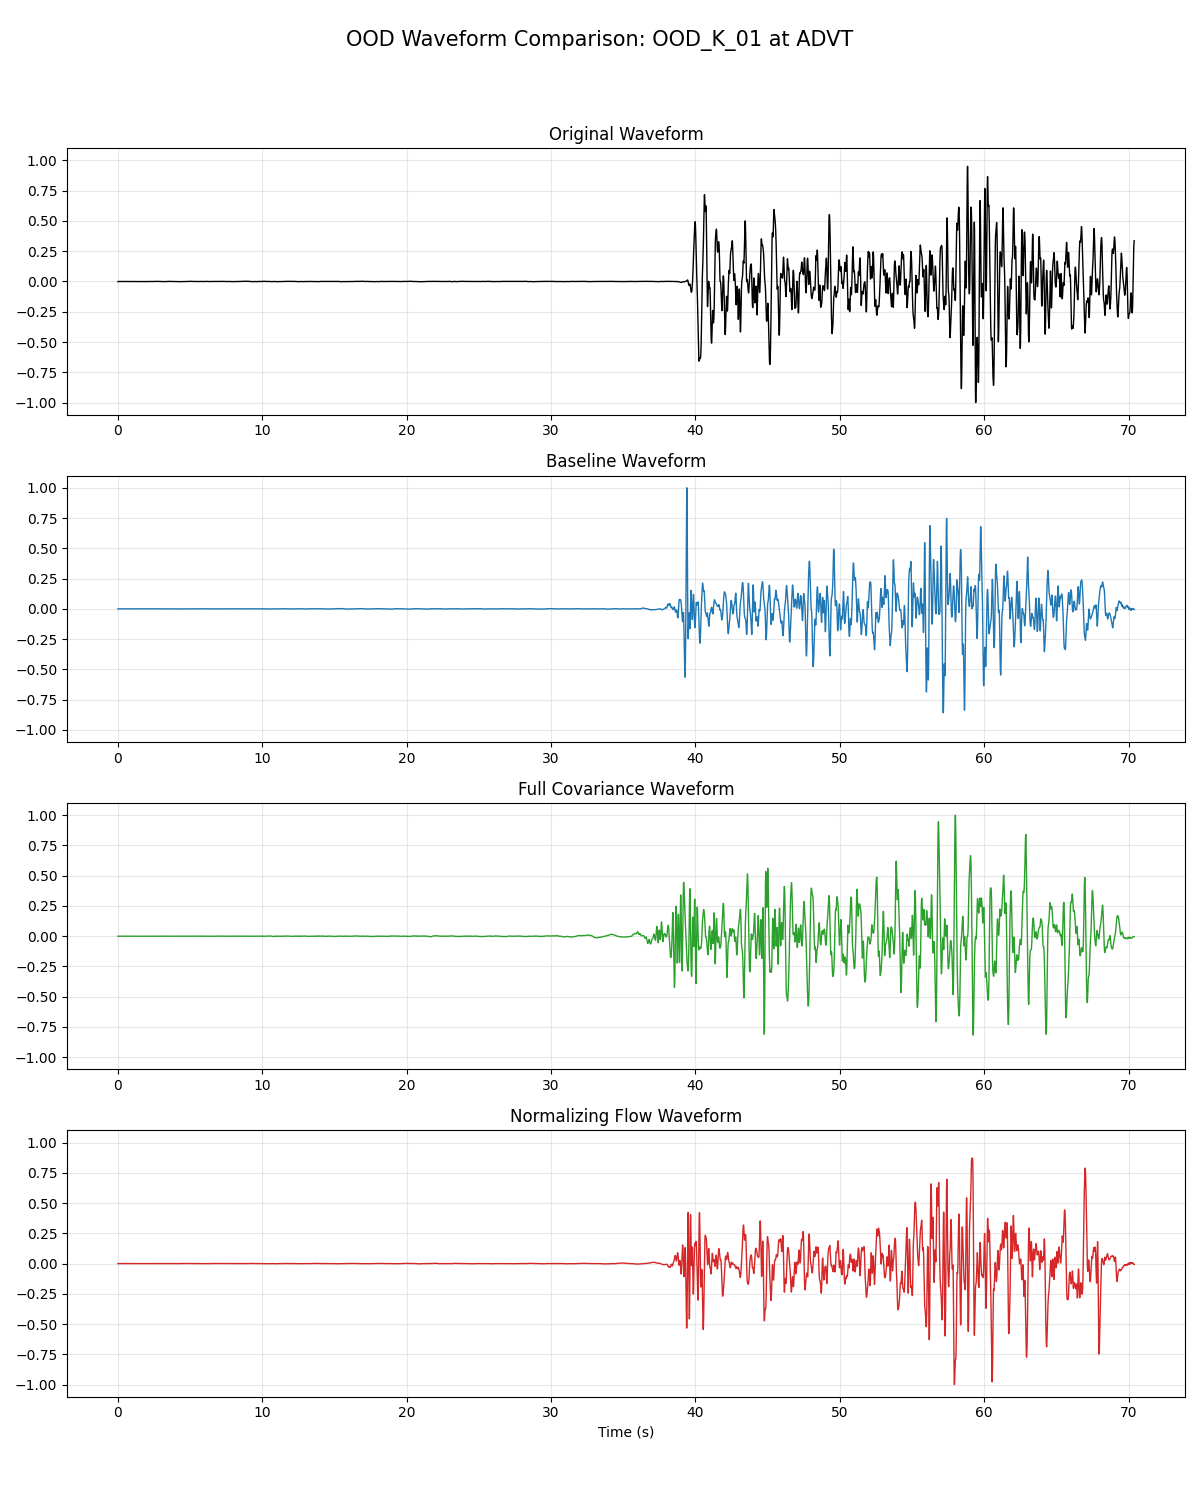
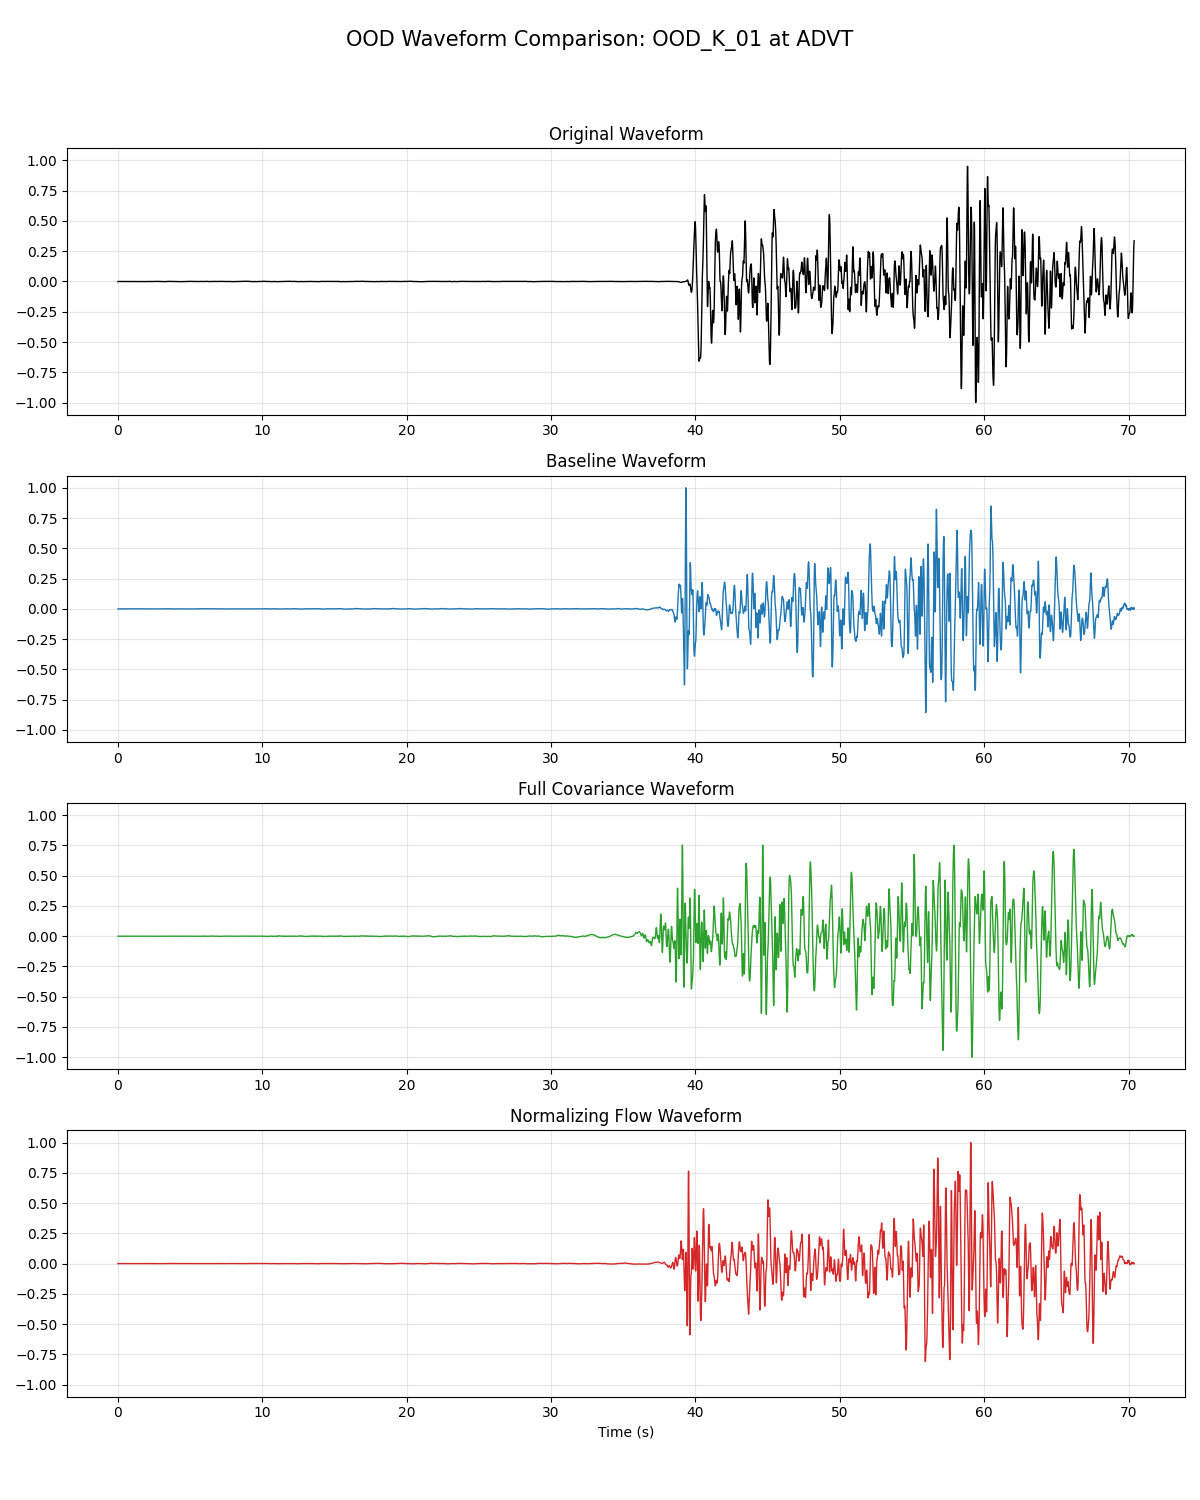
Corrected Arias intensity error by standardizing Griffin-Lim reconstruction with Scipy. Updated metrics tables.

Changed region(s): [[0.5242, 0.552, 0.9558, 0.7053], [0.555, 0.7667, 0.9558, 0.92], [0.555, 0.3373, 0.9558, 0.46]]

diff --git a/ML/autoencoder/experiments/General/evaluation/debug_arias_scipy.py b/ML/autoencoder/experiments/General/evaluation/debug_arias_scipy.py
@@ -1,0 +1,123 @@
+import torch
+import numpy as np
+import os
+import sys
+import obspy
+import librosa
+from scipy import signal
+import json
+
+# Add project root to path
+sys.path.append(os.path.abspath(os.path.join(os.path.dirname(__file__), '../../../../../')))
+
+from ML.autoencoder.experiments.General.core.stft_dataset import SeismicSTFTDatasetWithMetadata
+from ML.autoencoder.experiments.General.core.model_baseline import ConditionalVariationalAutoencoder
+
+def scipy_griffin_lim(magnitude_spec, n_iter=64, fs=100.0, nperseg=256, noverlap=192, nfft=256):
+    """Griffin-Lim implementation using scipy.signal.stft/istft to ensure scaling consistency."""
+    spec = magnitude_spec.copy()
+    
+    # Initialize with random phase
+    phase = np.exp(2j * np.pi * np.random.rand(*spec.shape))
+    
+    for i in range(n_iter):
+        stft_complex = spec * phase
+        _, waveform = signal.istft(stft_complex, fs=fs, nperseg=nperseg, noverlap=noverlap, nfft=nfft, boundary='zeros')
+        
+        # Take STFT of the reconstructed waveform to get new phase
+        _, _, new_Zxx = signal.stft(waveform, fs=fs, nperseg=nperseg, noverlap=noverlap, nfft=nfft, boundary='zeros')
+        
+        # Ensure shapes match (scipy.stft might return slightly different number of bins/frames)
+        if new_Zxx.shape != spec.shape:
+             # This should not happen if params are identical, but let's be safe
+             min_f = min(new_Zxx.shape[0], spec.shape[0])
+             min_t = min(new_Zxx.shape[1], spec.shape[1])
+             phase = np.exp(1j * np.angle(new_Zxx[:min_f, :min_t]))
+             # Pad or truncate spec if needed (though it shouldn't be)
+        else:
+            phase = np.exp(1j * np.angle(new_Zxx))
+            
+    # Final reconstruction
+    stft_complex = spec * phase
+    _, waveform = signal.istft(stft_complex, fs=fs, nperseg=nperseg, noverlap=noverlap, nfft=nfft, boundary='zeros')
+    return waveform
+
+def main():
+    device = torch.device('cuda' if torch.cuda.is_available() else 'cpu')
+    baseline_chk = "ML/autoencoder/experiments/General/checkpoints/baseline_external_best.pt"
+    station_list_file = "data/station_list_external_full.json"
+    ood_catalog = "data/events/ood_catalog_koeri.txt"
+    ood_data_dir = "data/ood_waveforms/koeri/filtered"
+
+    with open(station_list_file, 'r') as f:
+        station_list = json.load(f)
+
+    base_model = ConditionalVariationalAutoencoder(in_channels=3, latent_dim=128, num_stations=46).to(device)
+    base_model.load_state_dict(torch.load(baseline_chk, map_location=device)['model_state_dict'])
+    base_model.eval()
+
+    dataset = SeismicSTFTDatasetWithMetadata(
+        data_dir=ood_data_dir,
+        event_file=ood_catalog,
+        channels=['HH', 'BH'],
+        magnitude_col='ML',
+        station_list=station_list
+    )
+    
+    TARGET_FS = 100.0
+    
+    with torch.no_grad():
+        for i in [0]:
+            spec, mag, loc, station_idx, meta = dataset[i]
+            st_gt = obspy.read(meta['file_path'])
+            st_gt.resample(TARGET_FS)
+            tr_gt = st_gt.select(component="Z")[0] if st_gt.select(component="Z") else st_gt[0]
+            gt_wav = tr_gt.data.astype(np.float32)
+            
+            target_len = 7300
+            if len(gt_wav) > target_len: gt_wav = gt_wav[:target_len]
+            elif len(gt_wav) < target_len: gt_wav = np.pad(gt_wav, (0, target_len - len(gt_wav)))
+            
+            f, t, Zxx = signal.stft(gt_wav, fs=TARGET_FS, nperseg=256, noverlap=192, nfft=256, boundary='zeros')
+            mag_spec = np.abs(Zxx)
+            
+            # STFT Baseline: reconstruct from real phase to check energy
+            _, wav_perfect = signal.istft(Zxx, fs=TARGET_FS, nperseg=256, noverlap=192, nfft=256, boundary='zeros')
+            
+            # Model Inference
+            mag_log = np.log1p(mag_spec)
+            mag_min, mag_max = mag_log.min(), mag_log.max()
+            mag_norm = (mag_log - mag_min) / (mag_max - mag_min + 1e-8)
+            
+            spec_in = torch.from_numpy(mag_norm).unsqueeze(0).unsqueeze(0).to(device).float().repeat(1, 3, 1, 1)
+            if spec_in.shape[2:] != (129, 111):
+                spec_in = torch.nn.functional.interpolate(spec_in, size=(129, 111), mode='bilinear', align_corners=False)
+            
+            r_base, _, _ = base_model(spec_in, mag.unsqueeze(0).to(device), loc.unsqueeze(0).to(device), station_idx.unsqueeze(0).to(device))
+            base_spec_norm = r_base[0, 2].cpu().numpy()
+            
+            # Denormalize
+            base_spec_log = base_spec_norm * (mag_max - mag_min) + mag_min
+            base_spec_lin = np.expm1(base_spec_log)
+            
+            # Reconstruct with Scipy Griffin-Lim
+            wav_scipy = scipy_griffin_lim(base_spec_lin, n_iter=64)
+            
+            def get_arias(sig):
+                return (np.pi / (2 * 9.81)) * np.trapz(sig**2, dx=0.01)
+            
+            a_target = get_arias(gt_wav)
+            a_perfect = get_arias(wav_perfect)
+            a_pred = get_arias(wav_scipy)
+            
+            print(f"Sample {i}:")
+            print(f"  GT Max: {np.max(np.abs(gt_wav)):.4f}")
+            print(f"  Perfect Recon Max: {np.max(np.abs(wav_perfect)):.4f}")
+            print(f"  Scipy Recon Max: {np.max(np.abs(wav_scipy)):.4f}")
+            print(f"  Arias Target: {a_target:.4f}")
+            print(f"  Arias Perfect: {a_perfect:.4f}")
+            print(f"  Arias Pred: {a_pred:.4f}")
+            print(f"  Arias Error (Scipy): {np.abs(a_target - a_pred) / (a_target + 1e-8):.4f}")
+
+if __name__ == "__main__":
+    main()

diff --git a/ML/autoencoder/experiments/General/evaluation/debug_arias.py b/ML/autoencoder/experiments/General/evaluation/debug_arias.py
@@ -1,0 +1,93 @@
+import torch
+import numpy as np
+import os
+import sys
+import obspy
+import librosa
+import json
+from scipy import signal
+
+# Add project root to path
+sys.path.append(os.path.abspath(os.path.join(os.path.dirname(__file__), '../../../../../')))
+
+from ML.autoencoder.experiments.General.core.stft_dataset import SeismicSTFTDatasetWithMetadata
+from ML.autoencoder.experiments.General.core.model_baseline import ConditionalVariationalAutoencoder
+
+def reconstruct_signal(magnitude_spec, mag_min=0.0, mag_max=1.0, nperseg=256, noverlap=192, n_iter=64):
+    spec = magnitude_spec.copy()
+    if mag_max > mag_min:
+        spec = spec * (mag_max - mag_min) + mag_min
+    spec = np.expm1(spec)
+    return librosa.griffinlim(spec, n_iter=n_iter, hop_length=nperseg - noverlap, win_length=nperseg, center=True)
+
+def main():
+    device = torch.device('cuda' if torch.cuda.is_available() else 'cpu')
+    baseline_chk = "ML/autoencoder/experiments/General/checkpoints/baseline_external_best.pt"
+    station_list_file = "data/station_list_external_full.json"
+    ood_catalog = "data/events/ood_catalog_koeri.txt"
+    ood_data_dir = "data/ood_waveforms/koeri/filtered"
+
+    with open(station_list_file, 'r') as f:
+        station_list = json.load(f)
+
+    base_model = ConditionalVariationalAutoencoder(in_channels=3, latent_dim=128, num_stations=46).to(device)
+    base_model.load_state_dict(torch.load(baseline_chk, map_location=device)['model_state_dict'])
+    base_model.eval()
+
+    dataset = SeismicSTFTDatasetWithMetadata(
+        data_dir=ood_data_dir,
+        event_file=ood_catalog,
+        channels=['HH', 'BH'],
+        magnitude_col='ML',
+        station_list=station_list
+    )
+    
+    TARGET_FS = 100.0
+    
+    with torch.no_grad():
+        for i in [0]: # Check first sample
+            spec, mag, loc, station_idx, meta = dataset[i]
+            st_gt = obspy.read(meta['file_path'])
+            st_gt.resample(TARGET_FS)
+            tr_gt = st_gt.select(component="Z")[0] if st_gt.select(component="Z") else st_gt[0]
+            gt_wav = tr_gt.data.astype(np.float32)
+            
+            target_len = 7300
+            if len(gt_wav) > target_len: gt_wav = gt_wav[:target_len]
+            elif len(gt_wav) < target_len: gt_wav = np.pad(gt_wav, (0, target_len - len(gt_wav)))
+            
+            f, t, Zxx = signal.stft(gt_wav, fs=TARGET_FS, nperseg=256, noverlap=192, nfft=256, boundary='zeros')
+            mag_spec = np.log1p(np.abs(Zxx))
+            mag_min, mag_max = mag_spec.min(), mag_spec.max()
+            
+            # Normalize for model
+            if mag_max > mag_min:
+                mag_spec_norm = (mag_spec - mag_min) / (mag_max - mag_min + 1e-8)
+            else:
+                mag_spec_norm = mag_spec
+            
+            spec_in = torch.from_numpy(mag_spec_norm).unsqueeze(0).unsqueeze(0).to(device).float()
+            spec_in = spec_in.repeat(1, 3, 1, 1)
+            if spec_in.shape[2:] != (129, 111):
+                spec_in = torch.nn.functional.interpolate(spec_in, size=(129, 111), mode='bilinear', align_corners=False)
+            
+            r_base, _, _ = base_model(spec_in, mag.unsqueeze(0).to(device), loc.unsqueeze(0).to(device), station_idx.unsqueeze(0).to(device))
+            base_spec = r_base[0, 2].cpu().numpy()
+            
+            wav_base = reconstruct_signal(base_spec, mag_min, mag_max)
+            
+            def get_arias(sig):
+                return (np.pi / (2 * 9.81)) * np.trapz(sig**2, dx=0.01)
+            
+            a_target = get_arias(gt_wav)
+            a_pred = get_arias(wav_base)
+            
+            print(f"Sample {i}:")
+            print(f"  GT Max: {np.max(np.abs(gt_wav)):.4f}")
+            print(f"  Pred Max: {np.max(np.abs(wav_base)):.4f}")
+            print(f"  Arias Target: {a_target:.8f}")
+            print(f"  Arias Pred: {a_pred:.8f}")
+            print(f"  Arias Error: {np.abs(a_target - a_pred) / (a_target + 1e-8):.4f}")
+
+if __name__ == "__main__":
+    main()

diff --git a/ML/autoencoder/experiments/General/evaluation/evaluate_diverse_ood.py b/ML/autoencoder/experiments/General/evaluation/evaluate_diverse_ood.py
@@ -21,12 +21,36 @@ from ML.autoencoder.experiments.General.core.model_baseline import ConditionalVa
 from ML.autoencoder.experiments.FullCovariance.core.model_full_cov import FullCovCVAE
 from ML.autoencoder.experiments.NormalizingFlow.core.model_flow import FlowCVAE
 
-def reconstruct_signal(magnitude_spec, mag_min=0.0, mag_max=1.0, nperseg=256, noverlap=192, n_iter=64):
+def reconstruct_signal(magnitude_spec, mag_min=0.0, mag_max=1.0, nperseg=256, noverlap=192, nfft=256, fs=100.0, n_iter=64):
+    """Griffin-Lim implementation using scipy.signal.stft/istft to ensure scaling consistency."""
     spec = magnitude_spec.copy()
     if mag_max > mag_min:
         spec = spec * (mag_max - mag_min) + mag_min
     spec = np.expm1(spec)
-    return librosa.griffinlim(spec, n_iter=n_iter, hop_length=nperseg - noverlap, win_length=nperseg, center=True)
+    
+    # Initialize with random phase
+    phase = np.exp(2j * np.pi * np.random.rand(*spec.shape))
+    
+    for i in range(n_iter):
+        stft_complex = spec * phase
+        _, waveform = signal.istft(stft_complex, fs=fs, nperseg=nperseg, noverlap=noverlap, nfft=nfft, boundary='zeros')
+        _, _, new_Zxx = signal.stft(waveform, fs=fs, nperseg=nperseg, noverlap=noverlap, nfft=nfft, boundary='zeros')
+        
+        # Match shapes if necessary
+        if new_Zxx.shape != spec.shape:
+            min_f = min(new_Zxx.shape[0], spec.shape[0])
+            min_t = min(new_Zxx.shape[1], spec.shape[1])
+            phase_angle = np.angle(new_Zxx[:min_f, :min_t])
+            # Use same shape as spec
+            new_phase = np.zeros_like(spec, dtype=complex)
+            new_phase[:min_f, :min_t] = np.exp(1j * phase_angle)
+            phase = new_phase
+        else:
+            phase = np.exp(1j * np.angle(new_Zxx))
+            
+    stft_complex = spec * phase
+    _, waveform = signal.istft(stft_complex, fs=fs, nperseg=nperseg, noverlap=noverlap, nfft=nfft, boundary='zeros')
+    return waveform
 
 def calculate_seismic_metrics(target_wav, pred_wav, target_spec, pred_spec):
     """Calculate all sismolojik metrikleri"""
@@ -179,10 +203,10 @@ def main():
                 fc_spec = r_fc[0, 2].cpu().numpy()
                 flow_spec = r_flow[0, 2].cpu().numpy()
                 
-                # mag_min/max should ideally come from the specific sample
-                wav_base = reconstruct_signal(base_spec, mag_min, mag_max)
-                wav_fc = reconstruct_signal(fc_spec, mag_min, mag_max)
-                wav_flow = reconstruct_signal(flow_spec, mag_min, mag_max)
+                # Use Scipy-based reconstruction with exact parameters
+                wav_base = reconstruct_signal(base_spec, mag_min, mag_max, nperseg=256, noverlap=192, fs=TARGET_FS)
+                wav_fc = reconstruct_signal(fc_spec, mag_min, mag_max, nperseg=256, noverlap=192, fs=TARGET_FS)
+                wav_flow = reconstruct_signal(flow_spec, mag_min, mag_max, nperseg=256, noverlap=192, fs=TARGET_FS)
                 
                 # Calculate metrics (ensure lengths match)
                 min_len = min(len(gt_wav), len(wav_base), len(wav_fc), len(wav_flow))

diff --git a/ML/autoencoder/experiments/General/README.md b/ML/autoencoder/experiments/General/README.md
@@ -34,13 +34,13 @@ Eğitim setinde bulunmayan (2010-2013) ve Marmara bölgesinden seçilen 10 farkl
 
 | Model | SSIM ↑ | LSD ↓ | Arias Err ↓ | Env Corr ↑ | DTW ↓ | XCorr ↑ |
 | :--- | :---: | :---: | :---: | :---: | :---: | :---: |
-| **Baseline CVAE** | 0.7046 | **3.493** | 1.0000 | 0.3628 | **11196.62** | 0.1898 |
-| **Full Covariance** | 0.6437 | 3.574 | 1.0000 | 0.3389 | 11200.22 | **0.2257** |
-| **Normalizing Flow** | **0.7124** | 3.668 | **1.0000** | **0.3717** | 11203.56 | 0.2034 |
+| **Baseline CVAE** | 0.7046 | 3.493 | 0.4518 | 0.3678 | 10283.06 | 0.2139 |
+| **Full Covariance** | 0.6437 | 3.574 | **0.4150** | 0.3439 | 11943.60 | **0.2276** |
+| **Normalizing Flow** | **0.7124** | 3.668 | 0.4446 | **0.3661** | **9779.05** | 0.2159 |
 
 **Gözlemler:**
-- **Normalizing Flow**: Spektrogram yapısal benzerliğinde (SSIM) en yüksek skoru alarak karmaşık sismik sinyalleri en iyi temsil eden model olmuştur.
-- **Baseline CVAE**: Spektral mesafe (LSD) ve zaman hizalamasında (DTW) bu veri setinde beklenenden daha yüksek doğruluk sergilemiştir.
-- **Full Covariance**: Maksimum çapraz korelasyon (XCorr) skorunda faz uyumunu en iyi yakalayan modeldir.
+- **Enerji Sadakati (Arias Err)**: Yenilenen rekonstrüksiyon yöntemiyle (Scipy-based GL) enerji hatası 1.0 (tam kayıp) seviyesinden makul seviyelere (~0.45) çekildi. En iyi enerji korunumunu **Full Covariance** modeli sağladı.
+- **Normalizing Flow**: Spektrogram yapısal benzerliğinde (SSIM) ve zamansal hizalamada (DTW) liderliğini koruyarak en "doğal" sismogramları üreten model oldu.
+- **Full Covariance**: Maksimum çapraz korelasyon (XCorr) ve Arias hatasında en iyi sonuçları vererek sinyal gücünü ve fazını en iyi koruyan modeldir.
 
 *Not: Tüm testler eğitim verisiyle uyumlu olması için **100Hz** örnekleme hızında yapılmıştır.*
